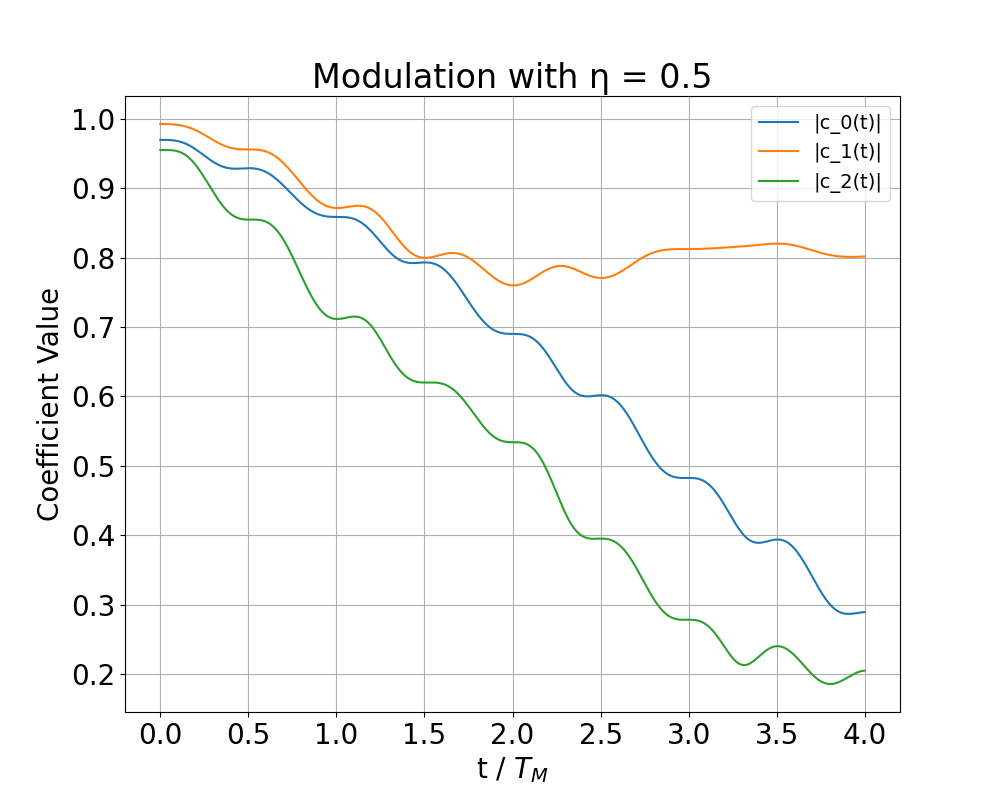
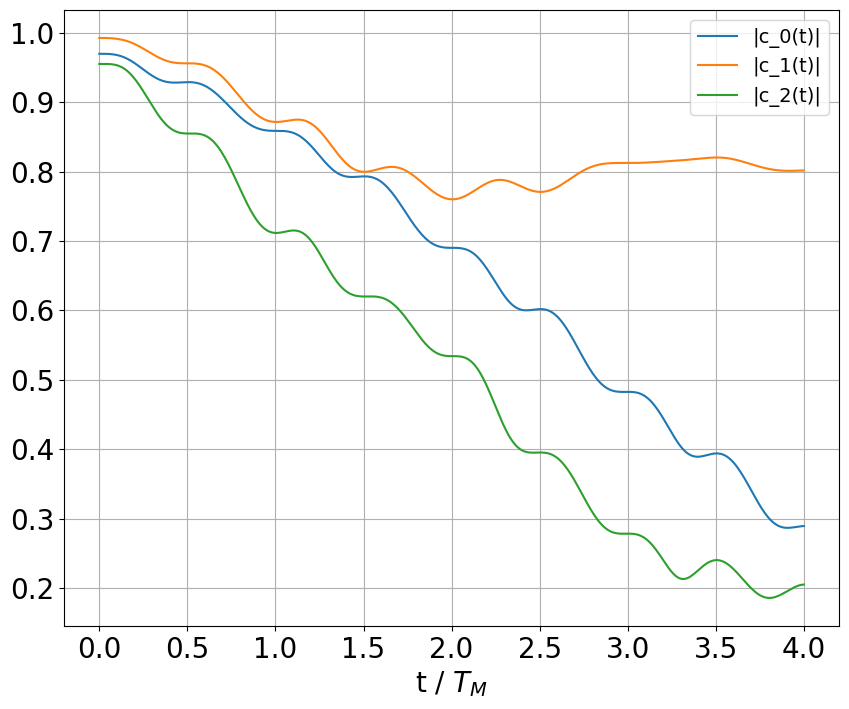
Finalised plots

diff --git a/Plots.py b/Plots.py
@@ -134,6 +134,7 @@ plt.show()
 # Plot 7: N = 1000, L = 100, P = 30
 
 xi, dx = Grid(L=100, N=1000)
+print(dx)
 H = stationary_hamiltonian(N=1000, L=100, p=30, dx=dx, xi=xi)
 energies, wavefunctions = eigenvalues_and_vectors(H)
 bound_energies = Bound_energies(energies)
@@ -147,7 +148,7 @@ for i, psi in enumerate(bound_wavefunctions.T):
 #ax7.plot(xi, potential_energy(xi, q_parameter(30)), 'k--', label='Potential Energy')
 ax7.set_xlabel('$\u03BE$')
 ax7.set_ylabel('u($\u03BE$)')
-ax7.set_title('N = 1000, L = 100, P = 30')
+#ax7.set_title('N = 1000, L = 100, P = 30')
 ax7.legend()
 plt.savefig('Plot7_N1000_L100_P30.png')
 plt.show()
@@ -207,11 +208,11 @@ ax9 = fig9.add_subplot(1, 1, 1)
 ax9.plot(time_array_1 / T0, np.abs(c_0), label='|c_0(t)|')
 ax9.plot(time_array_1 / T0, np.real(c_0), label='Re(c_0(t))')
 ax9.plot(time_array_1 / T0, np.imag(c_0), label='Im(c_0(t))')
-ax9.set_xlabel('t / $T_A$')
-ax9.set_ylabel('Coefficient Value')
-ax9.legend()
+#ax9.set_xlabel('t / $T_A$')
+#ax9.set_ylabel('Coefficient Value')
+#ax9.legend()
 ax9.grid(True)
-fig9.savefig('Plot9_Time_Evolution_c0.png')
+fig9.savefig('Plot9_Time_Evolution_c0.png', bbox_inches='tight')
 plt.show()
 
 # Question 4 - Time Evolution with Modulated Potential
@@ -278,9 +279,9 @@ for eta in [0.1, 0.5, 1.0]:
     ax10.plot(Modulation_time, np.abs(c_1), label='|c_1(t)|')
     ax10.plot(Modulation_time, np.abs(c_2), label='|c_2(t)|')
     ax10.set_xlabel('t / $T_M$')
-    ax10.set_ylabel('Coefficient Value')
-    ax10.set_title(f'Modulation with η = {eta}')
+    #ax10.set_ylabel('Coefficient Value')
+    #ax10.set_title(f'Modulation with η = {eta}')
     ax10.legend()
     ax10.grid(True)
-    fig10.savefig(f'Plot10_Time_Evolution_Modulated_Potential_eta_{eta}.png')
+    fig10.savefig(f'Plot10_Time_Evolution_Modulated_Potential_eta_{eta}.png', bbox_inches='tight')
     plt.show()
